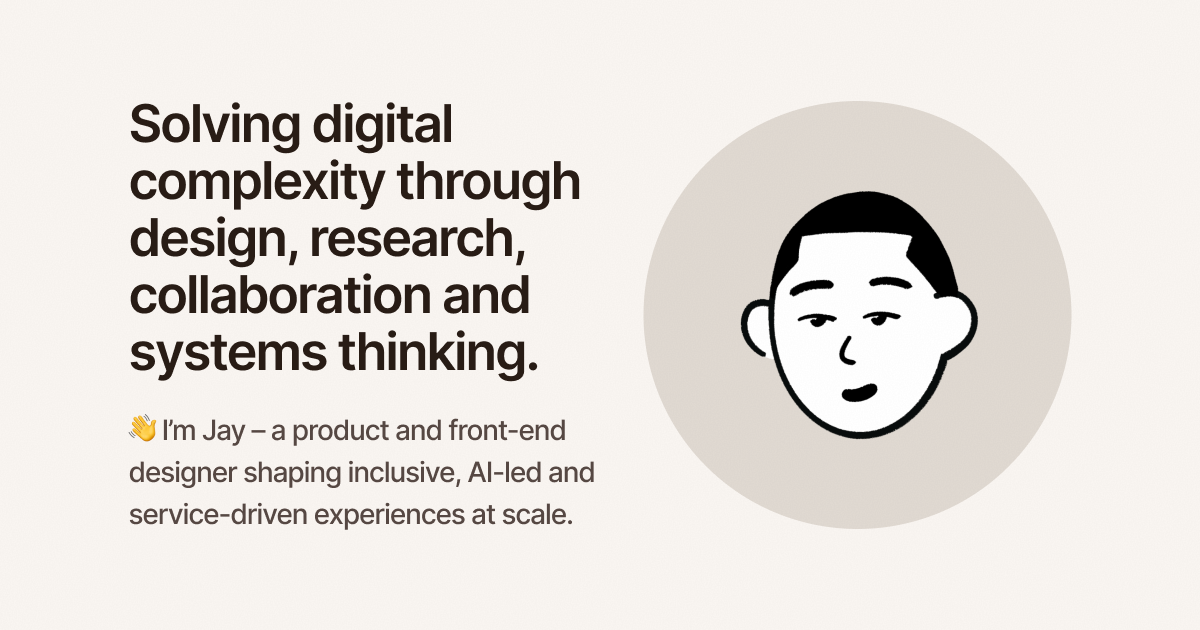
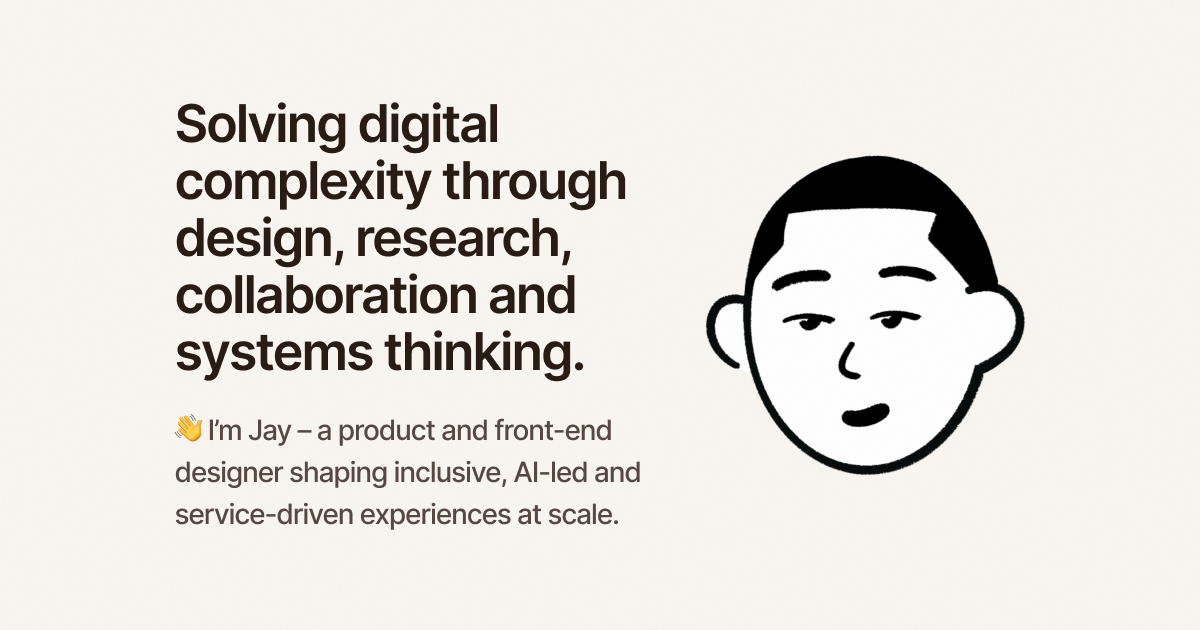
Push!

Changed region(s): [[0.5242, 0.1508, 0.8942, 0.8444], [0.0925, 0.1508, 0.5242, 0.6032], [0.0925, 0.6635, 0.555, 0.8444]]

diff --git a/app/page.tsx b/app/page.tsx
@@ -80,13 +80,15 @@ export default function Home() {
                         <li className="badge">UX Research</li>
                         <li className="badge">UI Design</li>
                         <li className="badge">Design systems</li>
+                        <li className="badge">Accessible design</li>
+                        <li className="badge">Inclusive design</li>
                         <li className="badge">Generative AI</li>
                         <li className="badge">Systems thinking</li>
-                        <li className="badge">Accessibility design</li>
                         <li className="badge">Agile methodology</li>
                         <li className="badge">ServiceNow</li>
                         <li className="badge">HTML</li>
                         <li className="badge">CSS</li>
+                        <li className="badge">Next.js</li>
                     </div>
 
                     <div className="grid-layout">
@@ -291,7 +293,7 @@ export default function Home() {
                                     <span className="material-symbols-rounded" translate="no">info</span>
                                 </span>
                                 
-                                <p className="italic">Some work displayed is conceptual, simplified or anonymised due to NDAs.</p>
+                                <p className="italic">Some projects are simplified or anonymised to respect client confidentiality and NDAs.</p>
                             </div>
                         </div>
                     </div>
@@ -367,6 +369,34 @@ export default function Home() {
 
                         <div className="card-img">
                             <Image src="assets/images/case-study-2/ow-bento-1.png"
+                                alt="Featured Project"
+                                fill
+                            />
+                        </div>
+                    </article>
+
+                    {/* Card #2 */}
+                    <article className="card">
+                        <div className="card-content card-padding-lg">
+                            <p className="small">
+                                2020 / Credit Suisse / Finance
+                            </p>
+
+                            <h3 className="card-title">Streamlining the KYC Onboarding Experience for Digital Wealth Management</h3>
+
+                            <p className="card-text">
+                                Coming soon.
+                            </p>
+                            
+                            <div className="badge-group">
+                                <p className="badge">FinTech</p>
+                                <p className="badge">Mobile</p>
+                                <p className="badge">Concept</p>
+                            </div>
+                        </div>
+
+                        <div className="card-img">
+                            <Image src="assets/images/case-study-3/cs-bento-1.png"
                                 alt="Featured Project"
                                 fill
                             />

diff --git a/styles/buttons.css b/styles/buttons.css
@@ -45,8 +45,8 @@
   .btn-primary:active, 
   .btn-primary:focus-visible {
     color: var(--white-pekoe);
-    background-color: var(--milk-tea);
-    border: 1px solid var(--masala-chai);
+    background-color: var(--masala-chai);
+    border: 1px solid var(--milk-tea);
   }
   
   /* Secondary */
@@ -74,7 +74,7 @@
   .btn-tertiary:active, 
   .btn-tertiary:focus-visible {
     color: var(--silver-needle);
-    background-color: var(--aged-pu-erh);
+    background-color: var(--ceylon-leaf);
     border: 1px solid var(--aged-pu-erh);
   }
   

diff --git a/styles/globals.css b/styles/globals.css
@@ -577,7 +577,7 @@ header {
 .hero-block {
   display: flex;
   flex-direction: column;
-  gap: 1.25rem;
+  gap: 1.5rem;
   grid-area: content;
 }
 
@@ -589,9 +589,7 @@ header {
 }
 
 .hero-img {
-  background-color: var(--dried-clay);
-  border-radius: 100%;
-  max-width: 50%;
+  max-width: 40%;
   display: block;
   object-fit: contain;
 }
@@ -906,7 +904,7 @@ html:focus-within {
 }
 
 .hero-img {
-  max-width: 100%;
+  max-width: 60%;
 }
 
 .bento-grid {

diff --git a/app/bp-workplace/page.tsx b/app/bp-workplace/page.tsx
@@ -644,7 +644,7 @@ export default function CaseStudyTwo() {
                                 </li>
 
                                 <li>
-                                    Reduced average clicks to complete top tasks such as...
+                                    Reduced average clicks to complete critical tasks such as access requests and desk bookings.
                                 </li>
 
                                 <li>

diff --git a/styles/typography.css b/styles/typography.css
@@ -13,7 +13,7 @@
     }
 
     h1.hero-title {
-      font-size: clamp(2.25rem, 5vw, 3.25rem);
+      font-size: clamp(2.5rem, 5vw, 3.25rem);
       margin: 0;
     }
     
@@ -115,8 +115,12 @@
     font-size: 1rem;
     letter-spacing: -0.04rem;
     margin: 0;
-    padding-bottom: 1rem;
+    padding-bottom: 1.25rem;
     line-height: 1.6;
+  }
+
+  .metadata li {
+    padding-bottom: 1rem;
   }
 
   li::marker {
